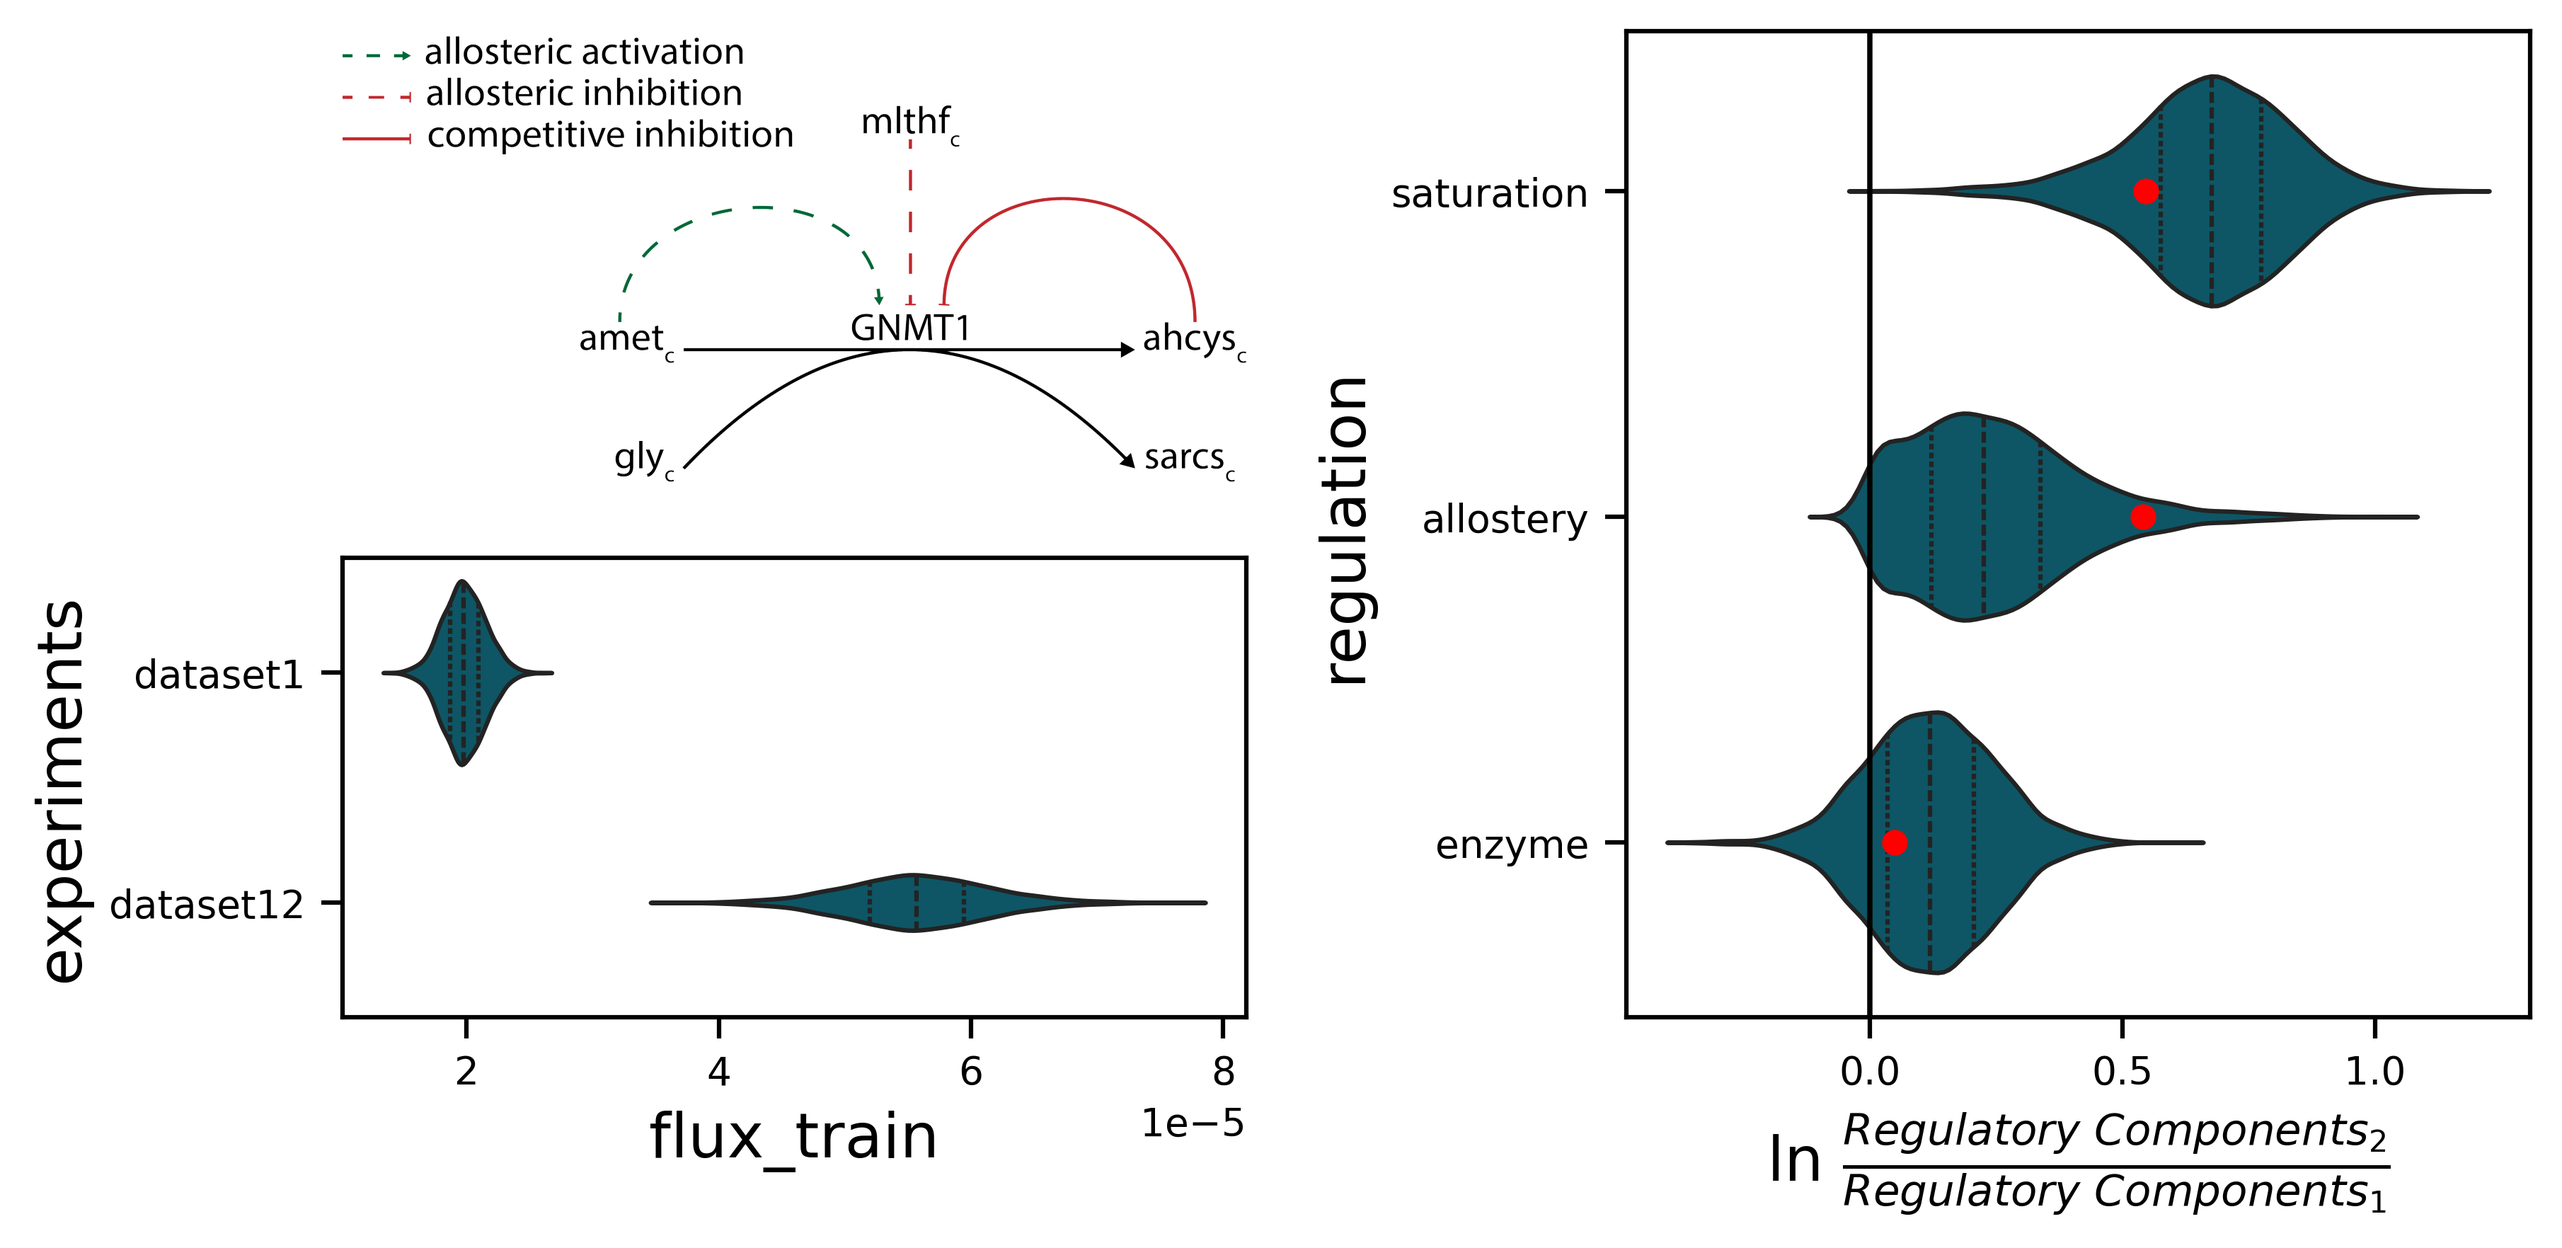
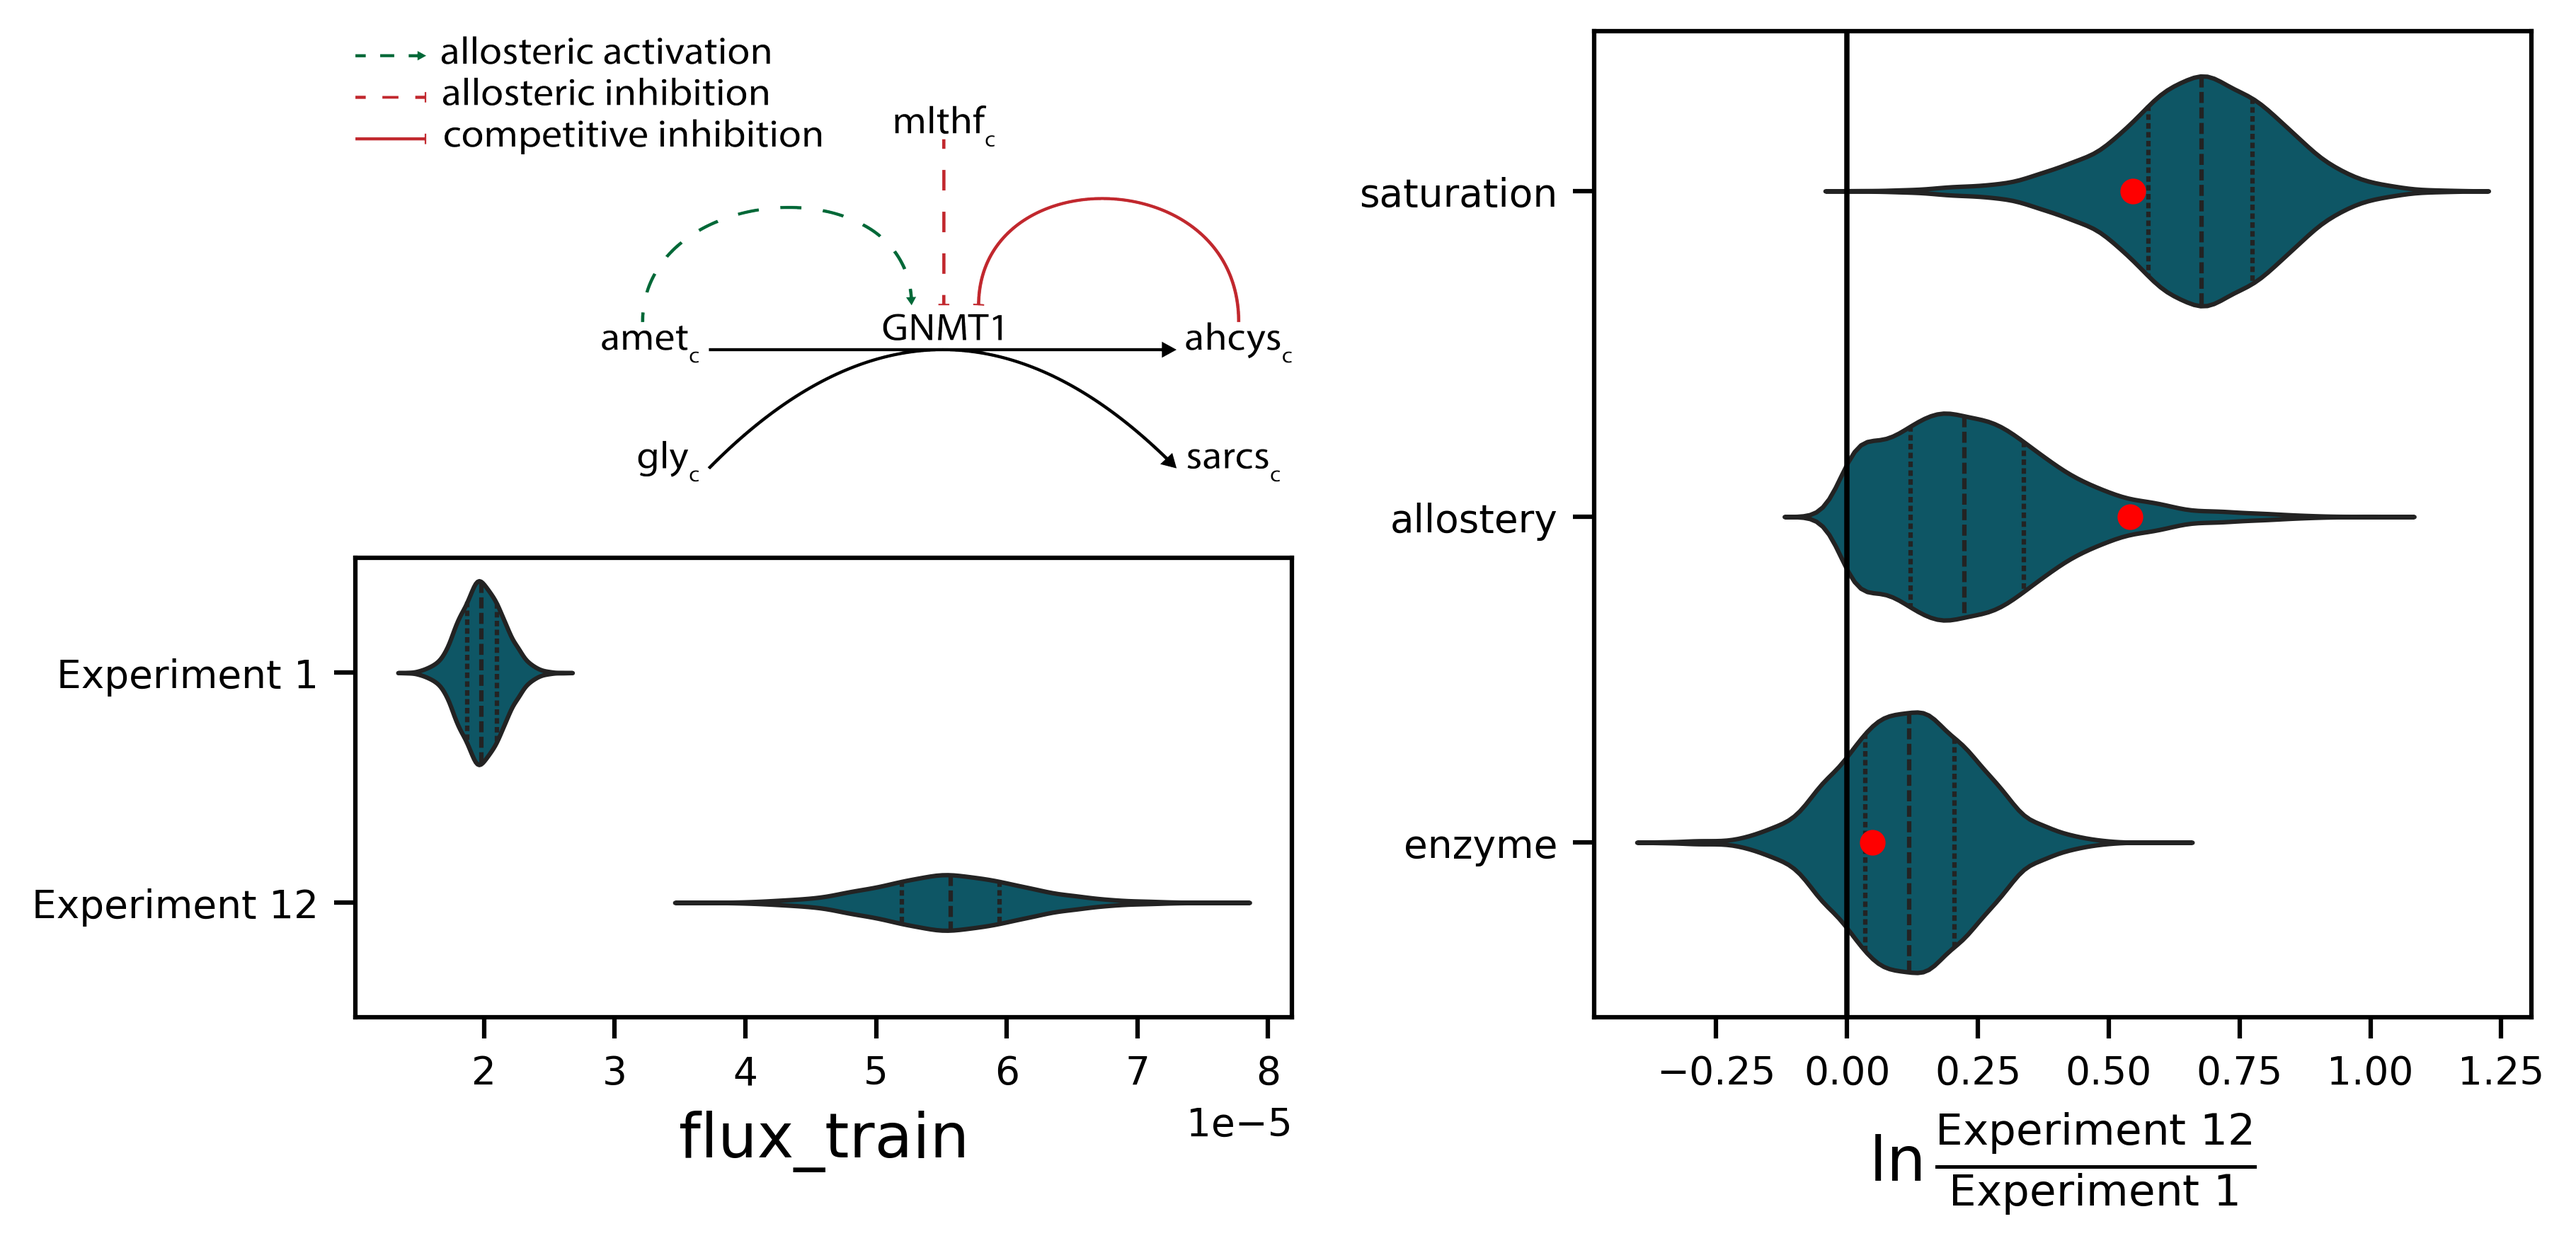
Update figure 5

diff --git a/plot_figure_5.py b/plot_figure_5.py
@@ -31,30 +31,50 @@ from matplotlib.gridspec import GridSpec
 from maud.loading_maud_inputs import load_maud_input
 from maud.getting_idatas import get_idata
 
-plt.style.use('ipynb')
+plt.style.use("ipynb")
 
 MAUD_OUTPUT = Path.cwd() / "results" / "methionine"
-MAUD_SIM = Path.cwd()  / "results" / "methionine" / "simulate"
-PLOT_OUTPUT = Path.cwd() / "figures" 
+MAUD_SIM = Path.cwd() / "results" / "methionine" / "simulate"
+PLOT_OUTPUT = Path.cwd() / "figures"
+
 
 def plot_regulation(regulation_df, true_df, ax):
-    sns.violinplot(data=regulation_df, x="value", y="regulation", color="#005F73",
-              linewidth=1, orient="h", ax=ax, inner="quart")
+    sns.violinplot(
+        data=regulation_df,
+        x="value",
+        y="regulation",
+        color="#005F73",
+        linewidth=1,
+        orient="h",
+        ax=ax,
+        inner="quart",
+    )
     for line in ax.lines:
         line.set_marker("")
-    ax.set_xlabel(r"ln $\frac{Regulatory\ Components_{2}}{Regulatory\ Components_{1}}$")
+    ax.set_ylabel("")
+    ax.set_xlabel(r"$\ln\frac{\text{Experiment 12}}{\text{Experiment 1}}$")
     ax.axvline(x=0, color="k")
     for i, value in enumerate(true_df):
         ax.plot(value, i, "r")
     return ax
 
+
 def plot_flux(flux_df, ax):
-    sns.violinplot(data=flux_df, x="flux_train", y="experiments", color="#005F73",
-              linewidth=1, orient="h", ax=ax, inner="quart")
+    sns.violinplot(
+        data=flux_df,
+        x="flux_train",
+        y="experiments",
+        color="#005F73",
+        linewidth=1,
+        orient="h",
+        ax=ax,
+        inner="quart",
+    )
     for line in ax.lines:
         line.set_marker("")
+    ax.set_ylabel("")
+    ax.set_yticklabels(["Experiment 1", "Experiment 12"])
     return ax
-
 
 
 def get_regulation_df(infd):
@@ -63,81 +83,165 @@ def get_regulation_df(infd):
     exp_1 = "dataset1"
     exp_2 = "dataset12"
     regulation_df = pd.DataFrame()
-    allostery_samples_1 = infd.posterior.allostery_train.sel({"experiments": exp_1, "edges": edge}).to_dataframe().reset_index()
-    allostery_samples_2 = infd.posterior.allostery_train.sel({"experiments": exp_2, "edges": edge}).to_dataframe().reset_index()
-    enz_samples_1 = infd.posterior.conc_enzyme_train.sel({"experiments": exp_1, "enzymes": enzyme}).to_dataframe().reset_index()
-    enz_samples_2 = infd.posterior.conc_enzyme_train.sel({"experiments": exp_2, "enzymes": enzyme}).to_dataframe().reset_index()
-    saturation_samples_1 = infd.posterior.saturation_train.sel({"experiments": exp_1, "edges": edge}).to_dataframe().reset_index()
-    saturation_samples_2 = infd.posterior.saturation_train.sel({"experiments": exp_2, "edges": edge}).to_dataframe().reset_index()
-    reversibility_samples_1 = infd.posterior.reversibility_train.sel({"experiments": exp_1, "edges": edge}).to_dataframe().reset_index()
-    reversibility_samples_2 = infd.posterior.reversibility_train.sel({"experiments": exp_2, "edges": edge}).to_dataframe().reset_index()
-    saturation_df = pd.DataFrame.from_dict({"value": np.log(saturation_samples_2["saturation_train"]) - np.log(saturation_samples_1["saturation_train"]),
-                                            "regulation": "saturation"})
-    allostery_df = pd.DataFrame.from_dict({"value": np.log(allostery_samples_2["allostery_train"]) - np.log(allostery_samples_1["allostery_train"]),
-                                            "regulation": "allostery"})
-    reversibility_df = pd.DataFrame.from_dict({"value": np.log(reversibility_samples_2["reversibility_train"]) - np.log(reversibility_samples_1["reversibility_train"]),
-                                            "regulation": "reversibility"})
-    enzyme_df = pd.DataFrame.from_dict({"value": np.log(enz_samples_2["conc_enzyme_train"]) - np.log(enz_samples_1["conc_enzyme_train"]),
-                                            "regulation": "enzyme"})
-    regulation_df = pd.concat([
-                               saturation_df, 
-                               allostery_df,
-                               # reversibility_df,
-                               enzyme_df
-                               ],
-                               )
+    allostery_samples_1 = (
+        infd.posterior.allostery_train.sel({"experiments": exp_1, "edges": edge})
+        .to_dataframe()
+        .reset_index()
+    )
+    allostery_samples_2 = (
+        infd.posterior.allostery_train.sel({"experiments": exp_2, "edges": edge})
+        .to_dataframe()
+        .reset_index()
+    )
+    enz_samples_1 = (
+        infd.posterior.conc_enzyme_train.sel({"experiments": exp_1, "enzymes": enzyme})
+        .to_dataframe()
+        .reset_index()
+    )
+    enz_samples_2 = (
+        infd.posterior.conc_enzyme_train.sel({"experiments": exp_2, "enzymes": enzyme})
+        .to_dataframe()
+        .reset_index()
+    )
+    saturation_samples_1 = (
+        infd.posterior.saturation_train.sel({"experiments": exp_1, "edges": edge})
+        .to_dataframe()
+        .reset_index()
+    )
+    saturation_samples_2 = (
+        infd.posterior.saturation_train.sel({"experiments": exp_2, "edges": edge})
+        .to_dataframe()
+        .reset_index()
+    )
+    reversibility_samples_1 = (
+        infd.posterior.reversibility_train.sel({"experiments": exp_1, "edges": edge})
+        .to_dataframe()
+        .reset_index()
+    )
+    reversibility_samples_2 = (
+        infd.posterior.reversibility_train.sel({"experiments": exp_2, "edges": edge})
+        .to_dataframe()
+        .reset_index()
+    )
+    saturation_df = pd.DataFrame.from_dict(
+        {
+            "value": np.log(saturation_samples_2["saturation_train"])
+            - np.log(saturation_samples_1["saturation_train"]),
+            "regulation": "saturation",
+        }
+    )
+    allostery_df = pd.DataFrame.from_dict(
+        {
+            "value": np.log(allostery_samples_2["allostery_train"])
+            - np.log(allostery_samples_1["allostery_train"]),
+            "regulation": "allostery",
+        }
+    )
+    reversibility_df = pd.DataFrame.from_dict(
+        {
+            "value": np.log(reversibility_samples_2["reversibility_train"])
+            - np.log(reversibility_samples_1["reversibility_train"]),
+            "regulation": "reversibility",
+        }
+    )
+    enzyme_df = pd.DataFrame.from_dict(
+        {
+            "value": np.log(enz_samples_2["conc_enzyme_train"])
+            - np.log(enz_samples_1["conc_enzyme_train"]),
+            "regulation": "enzyme",
+        }
+    )
+    regulation_df = pd.concat(
+        [
+            saturation_df,
+            allostery_df,
+            # reversibility_df,
+            enzyme_df,
+        ],
+    )
     return regulation_df
+
 
 def get_true_regulatory_values(infd):
     edge = "GNMT1_GNMT"
     enzyme = "GNMT1"
     exp_1 = "dataset1"
     exp_2 = "dataset12"
-    t_enz_reg = infd.posterior.conc_enzyme_train.sel({"experiments":[exp_1, exp_2], "enzymes": enzyme}).to_dataframe().reset_index()
-    t_allo_reg = infd.posterior.allostery_train.sel({"experiments":[exp_1, exp_2], "edges": edge}).to_dataframe().reset_index()
-    t_sat_reg = infd.posterior.saturation_train.sel({"experiments":[exp_1, exp_2], "edges": edge}).to_dataframe().reset_index()
-    true_enzyme_reg = np.log(t_enz_reg[t_enz_reg["experiments"]==exp_2]["conc_enzyme_train"][1] / t_enz_reg[t_enz_reg["experiments"]==exp_1]["conc_enzyme_train"][0])
-    true_allostery_reg = np.log(t_allo_reg[t_allo_reg["experiments"]==exp_2]["allostery_train"][1] / t_allo_reg[t_allo_reg["experiments"]==exp_1]["allostery_train"][0])
-    true_saturation_reg = np.log(t_sat_reg[t_sat_reg["experiments"]==exp_2]["saturation_train"][1] / t_sat_reg[t_sat_reg["experiments"]==exp_1]["saturation_train"][0])
+    t_enz_reg = (
+        infd.posterior.conc_enzyme_train.sel(
+            {"experiments": [exp_1, exp_2], "enzymes": enzyme}
+        )
+        .to_dataframe()
+        .reset_index()
+    )
+    t_allo_reg = (
+        infd.posterior.allostery_train.sel(
+            {"experiments": [exp_1, exp_2], "edges": edge}
+        )
+        .to_dataframe()
+        .reset_index()
+    )
+    t_sat_reg = (
+        infd.posterior.saturation_train.sel(
+            {"experiments": [exp_1, exp_2], "edges": edge}
+        )
+        .to_dataframe()
+        .reset_index()
+    )
+    true_enzyme_reg = np.log(
+        t_enz_reg[t_enz_reg["experiments"] == exp_2]["conc_enzyme_train"][1]
+        / t_enz_reg[t_enz_reg["experiments"] == exp_1]["conc_enzyme_train"][0]
+    )
+    true_allostery_reg = np.log(
+        t_allo_reg[t_allo_reg["experiments"] == exp_2]["allostery_train"][1]
+        / t_allo_reg[t_allo_reg["experiments"] == exp_1]["allostery_train"][0]
+    )
+    true_saturation_reg = np.log(
+        t_sat_reg[t_sat_reg["experiments"] == exp_2]["saturation_train"][1]
+        / t_sat_reg[t_sat_reg["experiments"] == exp_1]["saturation_train"][0]
+    )
     return [
         true_saturation_reg,
         true_allostery_reg,
-        true_enzyme_reg,  
+        true_enzyme_reg,
     ]
-
 
 
 def get_flux_df(infd):
     reaction = "GNMT"
     exp_1 = "dataset1"
     exp_2 = "dataset12"
-    flux_df = infd.posterior.flux_train \
-    .sel(
-        {
-        "experiments": [exp_1, exp_2], 
-        "reactions": reaction
-        }
-        ) \
-    .to_dataframe() \
-    .reset_index()
-    flux_df[flux_df["flux_train"]==0.0] = np.nan
+    flux_df = (
+        infd.posterior.flux_train.sel(
+            {"experiments": [exp_1, exp_2], "reactions": reaction}
+        )
+        .to_dataframe()
+        .reset_index()
+    )
+    flux_df[flux_df["flux_train"] == 0.0] = np.nan
     return flux_df.dropna()
+
 
 def plot_figure_5():
     mi = load_maud_input(data_path=MAUD_OUTPUT / "user_input")
-    csvs_methionine = [MAUD_OUTPUT/ "samples" / file for file in os.listdir(MAUD_OUTPUT/ "samples") if ".csv" in file]
+    csvs_methionine = [
+        MAUD_OUTPUT / "samples" / file
+        for file in os.listdir(MAUD_OUTPUT / "samples")
+        if ".csv" in file
+    ]
     idata_methionine = get_idata(csvs_methionine, mi=mi, mode="train")
     regulation_df = get_regulation_df(idata_methionine)
     flux_df = get_flux_df(idata_methionine)
-    true_values = az.InferenceData.from_netcdf(MAUD_SIM/ "idata.nc")
+    true_values = az.InferenceData.from_netcdf(MAUD_SIM / "idata.nc")
     true_df = get_true_regulatory_values(true_values)
 
-
     # calling plotting scripts
-    cm = 1/2.54  # centimeters in inches
-    sns.set_context("paper", rc={"font.size":14,"axes.titlesize":14,"axes.labelsize":14})
+    cm = 1 / 2.54  # centimeters in inches
+    sns.set_context(
+        "paper", rc={"font.size": 14, "axes.titlesize": 14, "axes.labelsize": 14}
+    )
 
-    fig = plt.figure(constrained_layout=True, figsize = (21.0*cm, 10.5*cm))
+    fig = plt.figure(constrained_layout=True, figsize=(21.0 * cm, 10.5 * cm))
     gs = GridSpec(2, 2, figure=fig)
 
     ax0 = fig.add_subplot(gs[:, 1])
@@ -149,9 +253,10 @@ def plot_figure_5():
     ax0 = plot_regulation(regulation_df, true_df, ax0)
     ax2 = plot_flux(flux_df, ax2)
 
-    plt.figure(dpi = 300)
+    plt.figure(dpi=300)
     fig.tight_layout()
     fig.savefig(PLOT_OUTPUT / "decomposition.png")
+
 
 if __name__ == "__main__":
     plot_figure_5()
